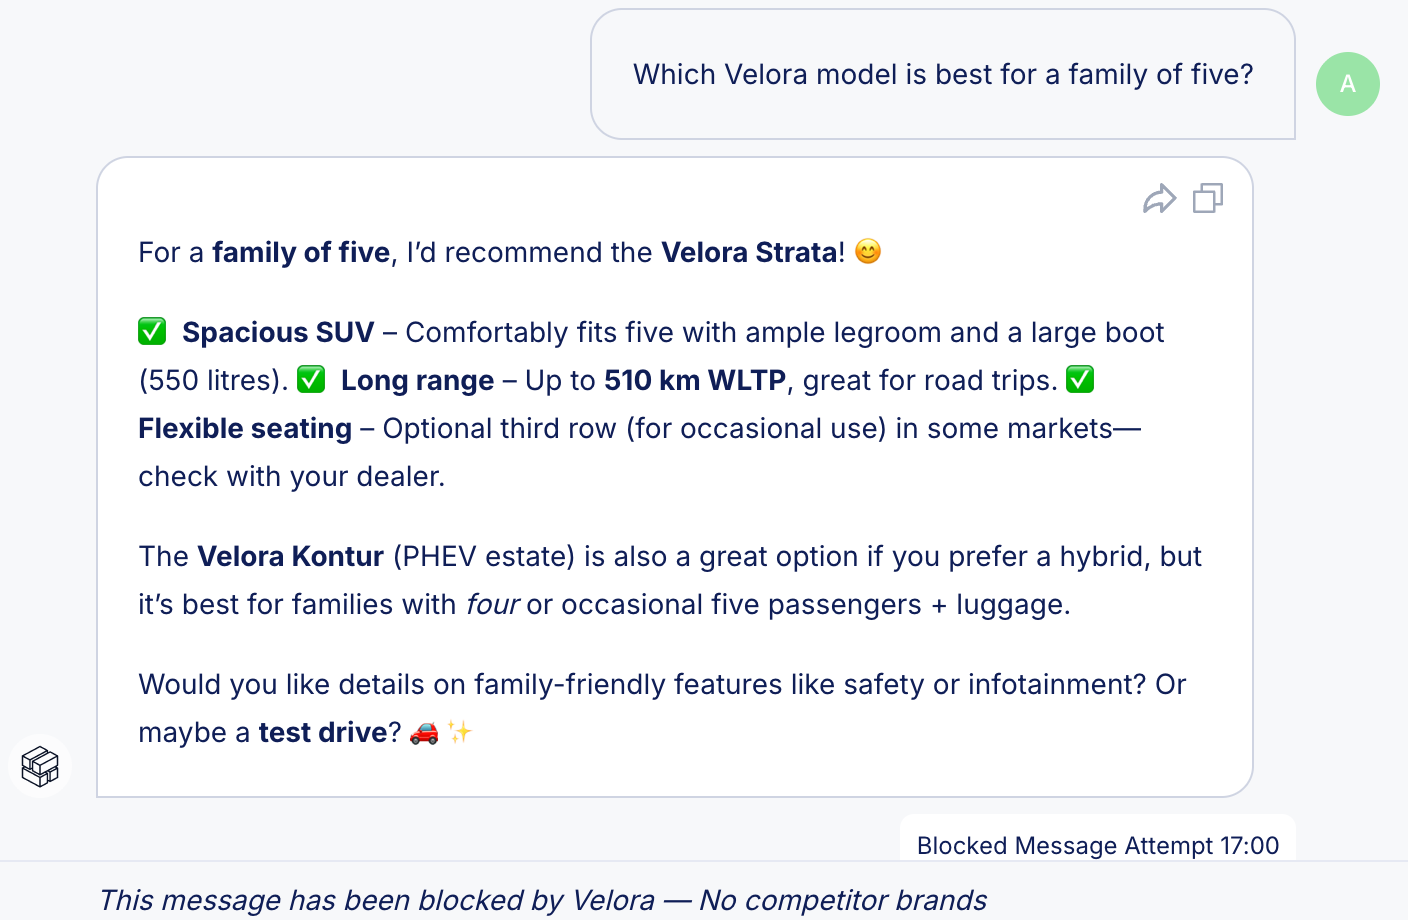
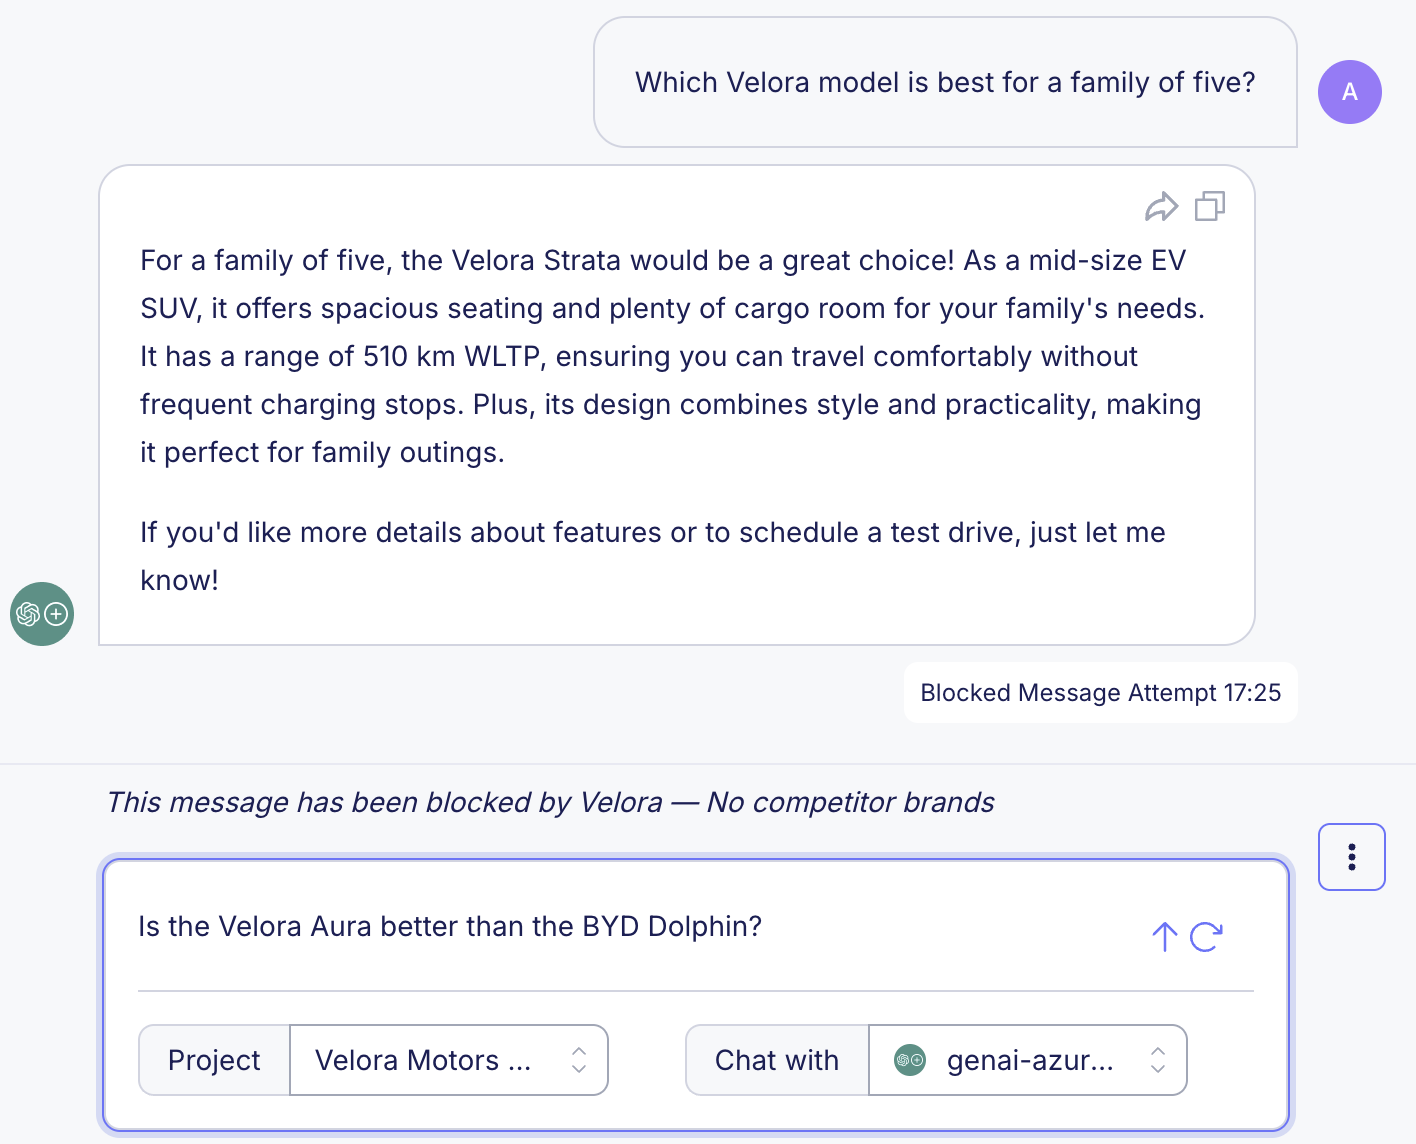
guardrails-agent: log and Velora screenshots from the UDF tenant; clearer Velora steps

diff --git a/guardrails-agent/UDF-DOCUMENTATION.md b/guardrails-agent/UDF-DOCUMENTATION.md
@@ -88,8 +88,8 @@ The agent behaves correctly on both routes: it asks "Do you confirm?" and the cu
 
 The same tenant has a second project, **Velora Motors - Dealer Chat**: the sales assistant of a fictional German car brand. It shows **company rules for a chatbot**: the brand must not compare itself with competitors, promise discounts, leak product plans or help with tampering.
 
-1. Console → **Chat** → **Project: Velora Motors - Dealer Chat**.
-2. **First message:** paste the dealer instructions below. Without them the model invents car models.
+1. Console → **Chat** → **Project** selector at the bottom (default *Global*) → **Velora Motors - Dealer Chat**.
+2. **First message:** paste the dealer instructions below and press Enter. Without them the model invents car models.
 
 ```
 You are the online sales assistant of Velora Motors, a German car manufacturer, on velora-motors.example and in the Velora app. You help customers choose a Velora model, explain features, equipment, charging, financing basics and how to book a test drive at an authorised Velora dealer. Answer in the customer's language (English or German), briefly and in a friendly tone.
